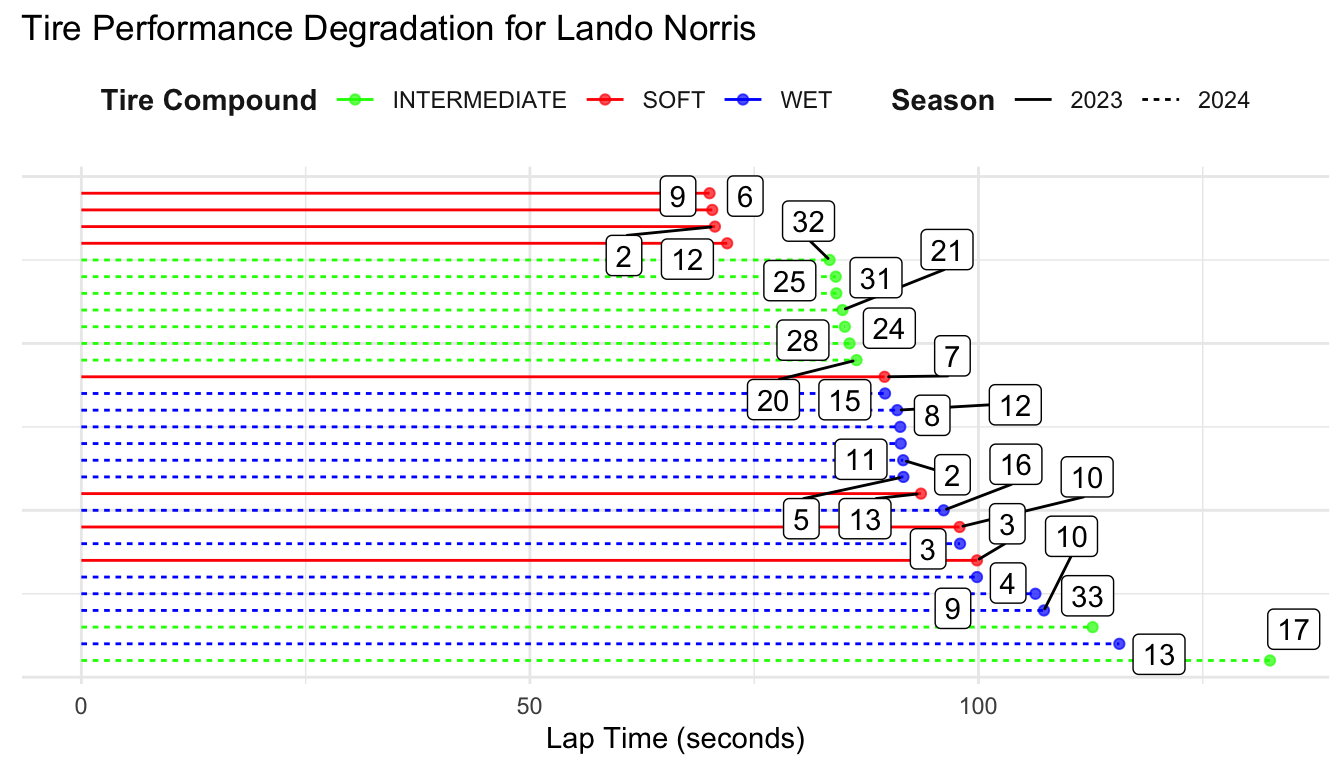
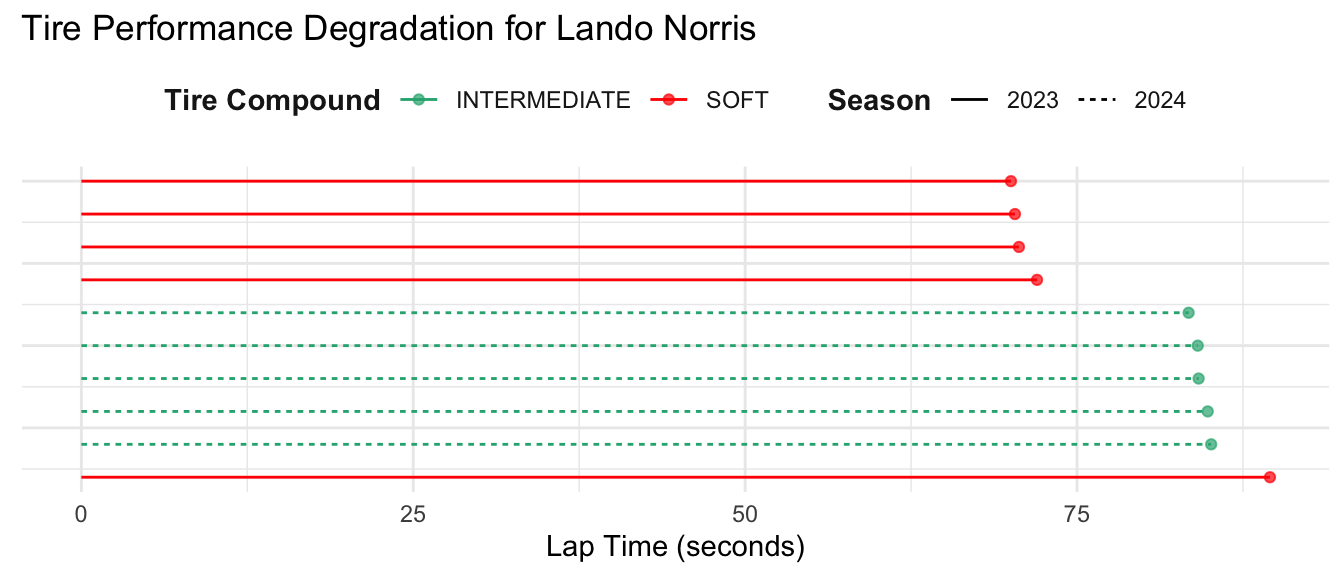
4/18 update with poster files

diff --git a/inst/poster/poster.html b/inst/poster/poster.html
@@ -280,15 +280,18 @@ font-size: 20pt;
 <div class="title_container">
 <!-- Left Logo  -->
 <div class="logo_left">
+<img src= 'figures/f1-logo.png' style="width: 80%">
 </div>
 <!-- Poster Title -->
 <div class= "poster_title">
-<h1 id="title">Interactive Analysis of Formula 1 Qualifying Data</h1>
+<h1 id="title">Interactive Analysis of Formula 1
+Qualifying Data</h1>
 <h3 id="author">Norah Kuduk<sup></sup>, Matt Higham (Advisor)<sup></sup></h3><br>
 <h5 id="affiliation"><sup></sup> Department of Statistics, St. Lawrence University</h5>
 </div>
 <!-- Right Logo  -->
 <div class="logo_right">
+<img src=figures/slu_white.png style="width: 80%">
 </div>
 </div>
 
@@ -297,9 +300,8 @@ font-size: 20pt;
 <div id="what-is-formula-1-f1" class="section level1">
 <h1>What is Formula 1 (F1)?</h1>
 <ul>
-<li><p>F1 is an international motorsport series governed by the Fédération Internationale de l’Automobile (FIA), involving 20 drivers across 10 teams who compete in 18–24 race weekends annually</p></li>
-<li><p>Each weekend features practice, qualifying, and race sessions, with qualifying laps representing single-lap performance used to decide the starting order for the race.</p></li>
-<li><p>This project centers on the analysis of F1 qualifying sessions, making comparisons between two drivers in the same race or the same driver across different seasons.</p></li>
+<li><p>F1 is an international motorsport series governed by the Fédération Internationale de l’Automobile (FIA), involving 20 drivers across 10 teams that compete in 18-24 race weekends across a season.</p></li>
+<li><p>Each weekend features practice, qualifying, and race sessions, with qualifying laps representing peak performance used to decide the starting order for the race.</p></li>
 <li><p>A car’s fastest lap from a qualifying session highlights driver skill, car setup efficiency, and team strategy under peak performance conditions.</p></li>
 </ul>
 </div>
@@ -307,17 +309,22 @@ font-size: 20pt;
 <h1>Objectives</h1>
 <ol style="list-style-type: decimal">
 <li><p>Compare driver performance across races/seasons, thinking about historically important or interesting sessions.</p></li>
-<li><p>Provide an interactive, visual platform for comparing qualifying laps for users.</p></li>
+<li><p>Provide an interactive, visual platform to compare qualifying laps for users.</p></li>
 </ol>
 </div>
 <div id="methods-tools" class="section level1">
 <h1>Methods &amp; Tools</h1>
 <ul>
-<li><p>Using <code>f1dataR</code> package (R version of fastf1 for python, ergast api, etc.)</p></li>
-<li><p>Creation of a local R package (<code>f1animateR</code>) that uses some functions from <code>f1dataR</code>, but also has functions I’ve created</p></li>
-<li><p>Using Shiny to create the app, hosted on the St. Lawrence University server
-# Results</p></li>
-<li><p>As a case study, we are looking at laps from the São Paulo Grand Prix, both across seasons and across different drivers.</p></li>
+<li><p>Using <code>f1dataR</code> package (R version of <code>fastf1</code> for Python, Ergast API, etc.).</p></li>
+<li><p>this is an extra bullet point to tray and fix spacing</p></li>
+<li><p>Creation of a local R package (<code>f1animateR</code>) that uses some functions from <code>f1dataR</code>, as well as helper functions when using <code>gganimate</code>.</p></li>
+<li><p>Using Shiny to create the app, hosted on the St. Lawrence University server.</p></li>
+</ul>
+</div>
+<div id="results" class="section level1">
+<h1>Results</h1>
+<ul>
+<li>As a case study, we are looking at laps from the São Paulo Grand Prix, both across seasons and across different drivers.</li>
 </ul>
 <div id="variable-details" class="section level2">
 <h2>Variable Details</h2>
@@ -358,144 +365,146 @@ font-size: 20pt;
 </div>
 <div id="season-comparison" class="section level2">
 <h2>Season Comparison</h2>
-First, we look at all qualifying laps and postioning in fastest laps from Lando Norris in 2023 versus 2024.
+<ul>
+<li>The season comparison highlights how wet weather conditions in 2023 led to significantly slower lap times compared to the dry conditions in 2024, as the positions between the two seasons are drastically far from each other.</li>
+</ul>
 <div class="figure" style="text-align: center"><span style="display:block;" id="fig:tiredegplot"></span>
-<img src="poster_files/figure-html/tiredegplot-1.png" alt="Plot of lap times and tire degredation across the two seasons" width="100%" />
+<img src="poster_files/figure-html/tiredegplot-1.png" alt="Plot of the five fastest lap times and tire degredation across the two seasons." width="100%" />
 <p class="caption">
-Figure 1: Plot of lap times and tire degredation across the two seasons
+Figure 1: Plot of the five fastest lap times and tire degredation across the two seasons.
 </p>
 </div>
 <table>
+<caption>
+<span id="tab:resultstable">Table 1: </span>Qualifying results for Lando Norris.
+</caption>
 <thead>
 <tr>
-<th style="text-align:left;">
+<th style="text-align:center;">
 driver
 </th>
-<th style="text-align:right;">
+<th style="text-align:center;">
 season
 </th>
-<th style="text-align:right;">
+<th style="text-align:center;">
 lap_time
 </th>
-<th style="text-align:left;">
+<th style="text-align:center;">
 compound
 </th>
 </tr>
 </thead>
 <tbody>
 <tr>
-<td style="text-align:left;">
+<td style="text-align:center;">
 NOR
 </td>
-<td style="text-align:right;">
+<td style="text-align:center;">
 2023
 </td>
-<td style="text-align:right;">
+<td style="text-align:center;">
 70.021
 </td>
-<td style="text-align:left;">
+<td style="text-align:center;">
 SOFT
 </td>
 </tr>
 <tr>
-<td style="text-align:left;">
+<td style="text-align:center;">
 NOR
 </td>
-<td style="text-align:right;">
+<td style="text-align:center;">
 2024
 </td>
-<td style="text-align:right;">
+<td style="text-align:center;">
 83.405
 </td>
-<td style="text-align:left;">
+<td style="text-align:center;">
 INTERMEDIATE
 </td>
 </tr>
 </tbody>
 </table>
 <div class="figure" style="text-align: center"><span style="display:block;" id="fig:animsampleplot"></span>
-<img src="poster_files/figure-html/animsampleplot-1.png" alt="Snapshot of a late point in the lap where cars are very far apart (about 64 seconds in)" width="100%" />
+<img src="poster_files/figure-html/animsampleplot-1.png" alt="Snapshot of a late point in the lap where cars are very far apart (about 69 seconds in)." width="100%" />
 <p class="caption">
-Figure 2: Snapshot of a late point in the lap where cars are very far apart (about 64 seconds in)
+Figure 2: Snapshot of a late point in the lap where cars are very far apart (about 69 seconds in).
 </p>
 </div>
 </div>
 <div id="driver-comparison" class="section level2">
 <h2>Driver Comparison</h2>
-<p>Second, we look at the fastest laps from Max Verstappen and Zhou Guanyu in 2023.</p>
+<ul>
+<li>The driver comparison shows how in constant conditions, differences in drivers/teams can have drastic effect on qualifying times, but even between 1st and 20th, the margins are very small.</li>
+</ul>
 <table>
+<caption>
+<span id="tab:drivercomp">Table 2: </span>Qualifying results for Verstappen and Zhou
+</caption>
 <thead>
 <tr>
-<th style="text-align:left;">
+<th style="text-align:center;">
 driver
 </th>
-<th style="text-align:right;">
+<th style="text-align:center;">
 season
 </th>
-<th style="text-align:right;">
+<th style="text-align:center;">
 lap_time
 </th>
-<th style="text-align:left;">
+<th style="text-align:center;">
 compound
 </th>
 </tr>
 </thead>
 <tbody>
 <tr>
-<td style="text-align:left;">
+<td style="text-align:center;">
 VER
 </td>
-<td style="text-align:right;">
+<td style="text-align:center;">
 2023
 </td>
-<td style="text-align:right;">
+<td style="text-align:center;">
 70.162
 </td>
-<td style="text-align:left;">
+<td style="text-align:center;">
 SOFT
 </td>
 </tr>
 <tr>
-<td style="text-align:left;">
+<td style="text-align:center;">
 ZHO
 </td>
-<td style="text-align:right;">
+<td style="text-align:center;">
 2023
 </td>
-<td style="text-align:right;">
+<td style="text-align:center;">
 71.275
 </td>
-<td style="text-align:left;">
+<td style="text-align:center;">
 SOFT
 </td>
 </tr>
 </tbody>
 </table>
 <div class="figure" style="text-align: center"><span style="display:block;" id="fig:driveranimplot"></span>
-<img src="poster_files/figure-html/driveranimplot-1.png" alt="Snapshot of a late point in the lap where the two drivers' cars are far apart (about 69 seconds in)" width="100%" />
+<img src="poster_files/figure-html/driveranimplot-1.png" alt="Snapshot of a late point in the lap where the two drivers' cars are far apart (about 63 seconds in)." width="100%" />
 <p class="caption">
-Figure 3: Snapshot of a late point in the lap where the two drivers’ cars are far apart (about 69 seconds in)
+Figure 3: Snapshot of a late point in the lap where the two drivers’ cars are far apart (about 63 seconds in).
 </p>
 </div>
 </div>
 </div>
-<div id="future-work" class="section level1">
-<h1>Future Work</h1>
-<ul>
-<li>Implementing a feature that allows user to select which lap number they’d like to visualize.</li>
-<li>Utilize sector times more in analysis.</li>
-<li>Eventually expland to race simulations.</li>
-</ul>
-</div>
 <div id="conclusion" class="section level1">
 <h1>Conclusion</h1>
-<p>Data is a very large part of Formula 1, cisual analytics offer deeper insight into qualifying performance for the average viewer.
-Interactive tools like Shiny make F1 data more accessible and fun</p>
+<p>Data is a very large part of Formula 1. Visual analytics offer deeper insight into qualifying performance for the average viewer.
+Interactive tools like Shiny make F1 data more accessible and fun.</p>
 </div>
 <div id="references" class="section level1">
 <h1>References</h1>
-<p><code>f1dataR</code>: Formula 1 data access package. Available at: <a href="https://cran.r-project.org/package=f1dataR">https://cran.r-project.org/package=f1dataR</a>
-What is Formula 1? Available at: <a href="https://www.formula1.com/en/page/what-is-f1">https://www.formula1.com/en/page/what-is-f1</a></p>
+<p><code>f1dataR</code>: Formula 1 data access package. Available at: <a href="https://cran.r-project.org/package=f1dataR">https://cran.r-project.org/package=f1dataR</a></p>
+<p>What is Formula 1? Available at: <a href="https://www.formula1.com/en/page/what-is-f1">https://www.formula1.com/en/page/what-is-f1</a></p>
 </div>
 </div>
 </div>
